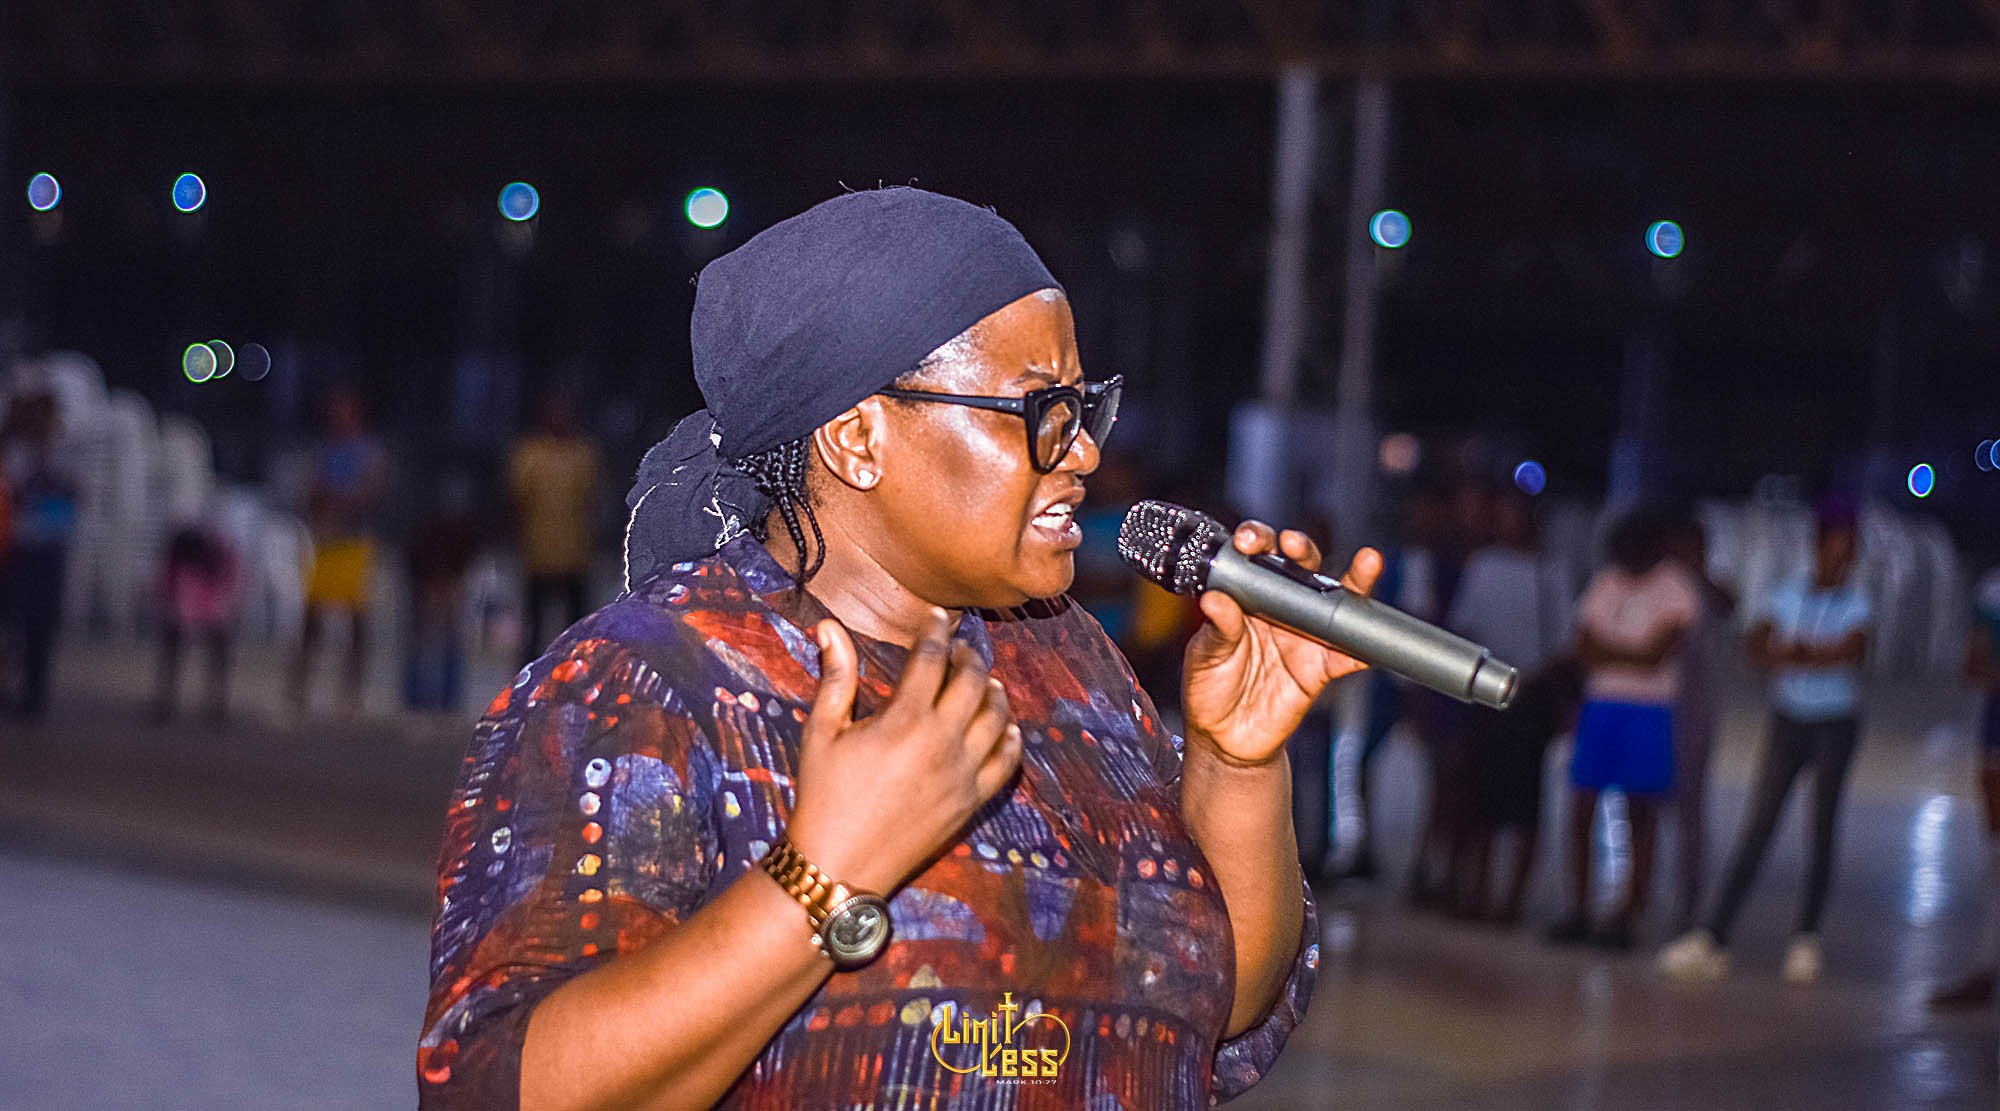
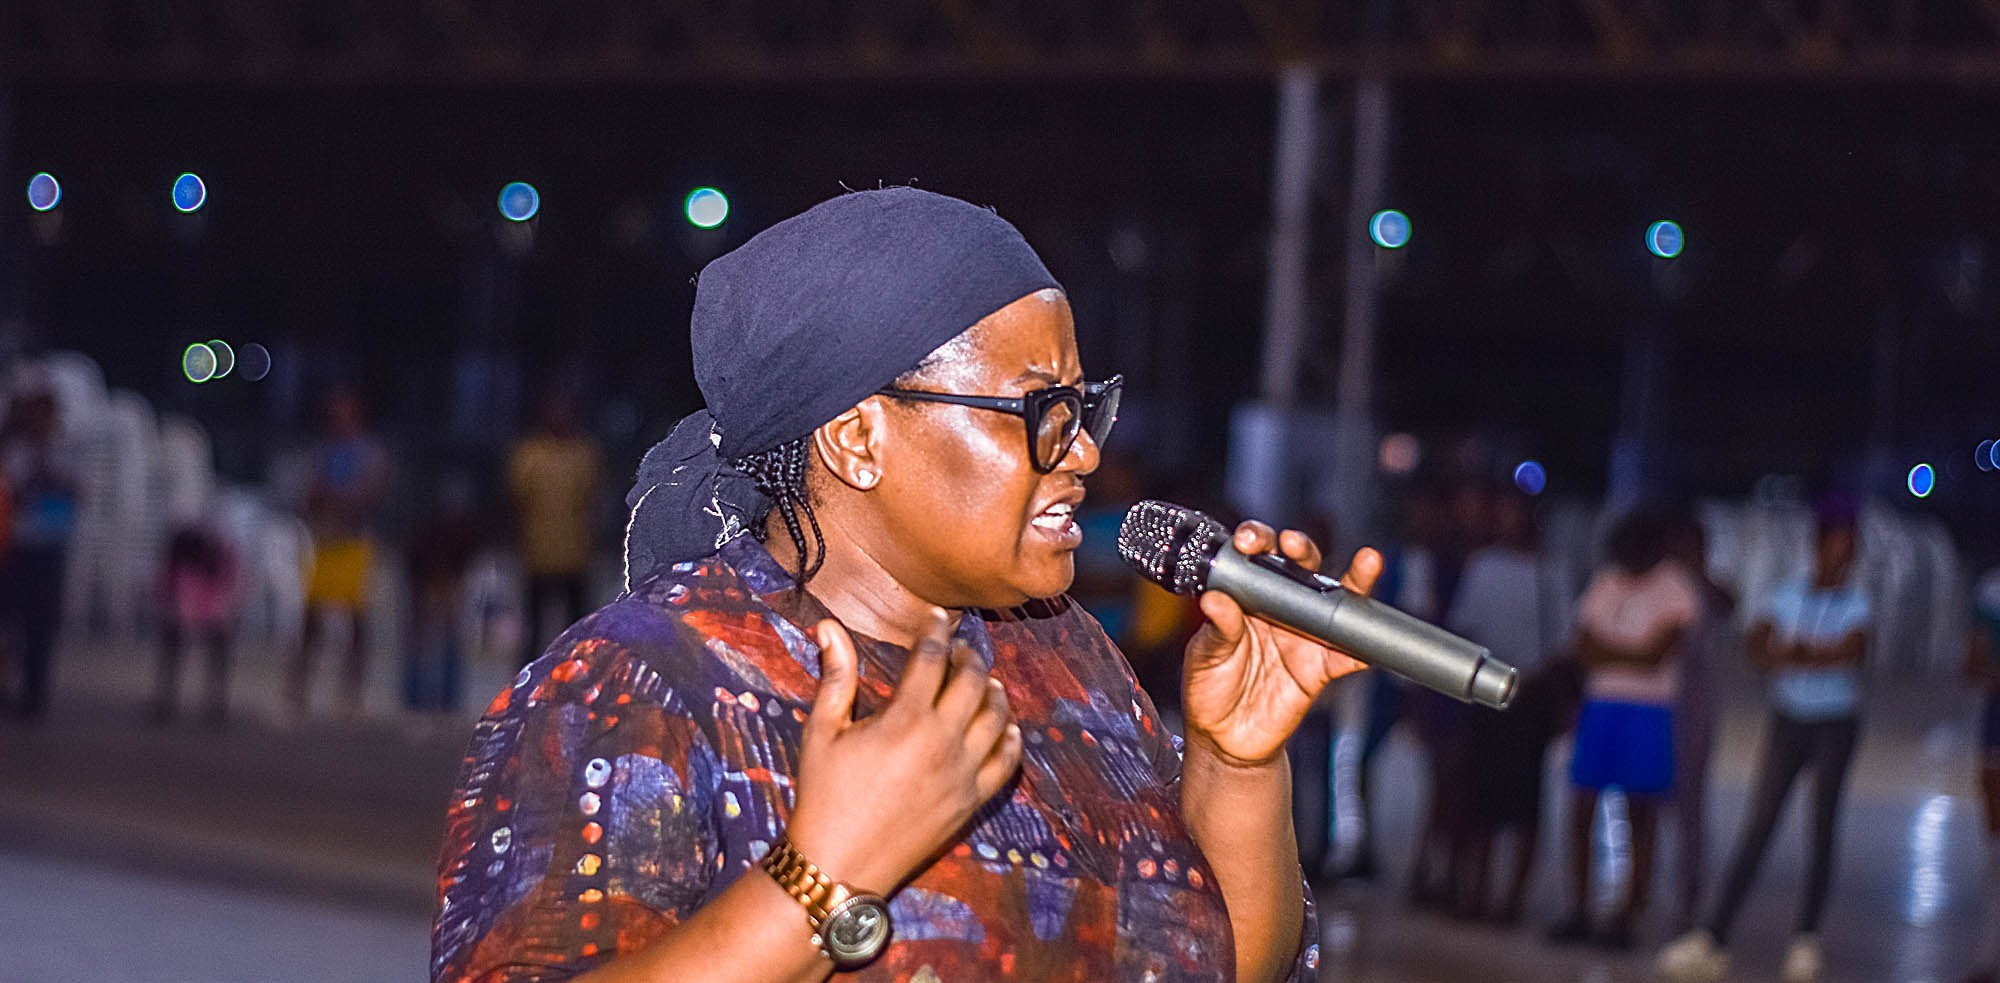
Change one of the carousel pictures

diff --git a/index.html b/index.html
@@ -69,7 +69,7 @@
                 </div>
               </div>
               <div class="carousel-item">
-                <img src="assets/img/Day 1 viiCopy.jpg" class="d-block w-100"  alt="...">
+                <img src="assets/img/day1viiiCoppy.jpg" class="d-block w-100"  alt="...">
                 <div class="carousel-caption d-none d-md-block">
                   <h4>MISSIONS AS AN ACT OF LOVE</h4>
                   <p>Missions work is an extension of God’s love for the world through the church to particular people, following the example of Christ: “For God so loved the world, that he gave his only Son, that whoever believes in him should not perish but have eternal life” (John 3:16)</p>
